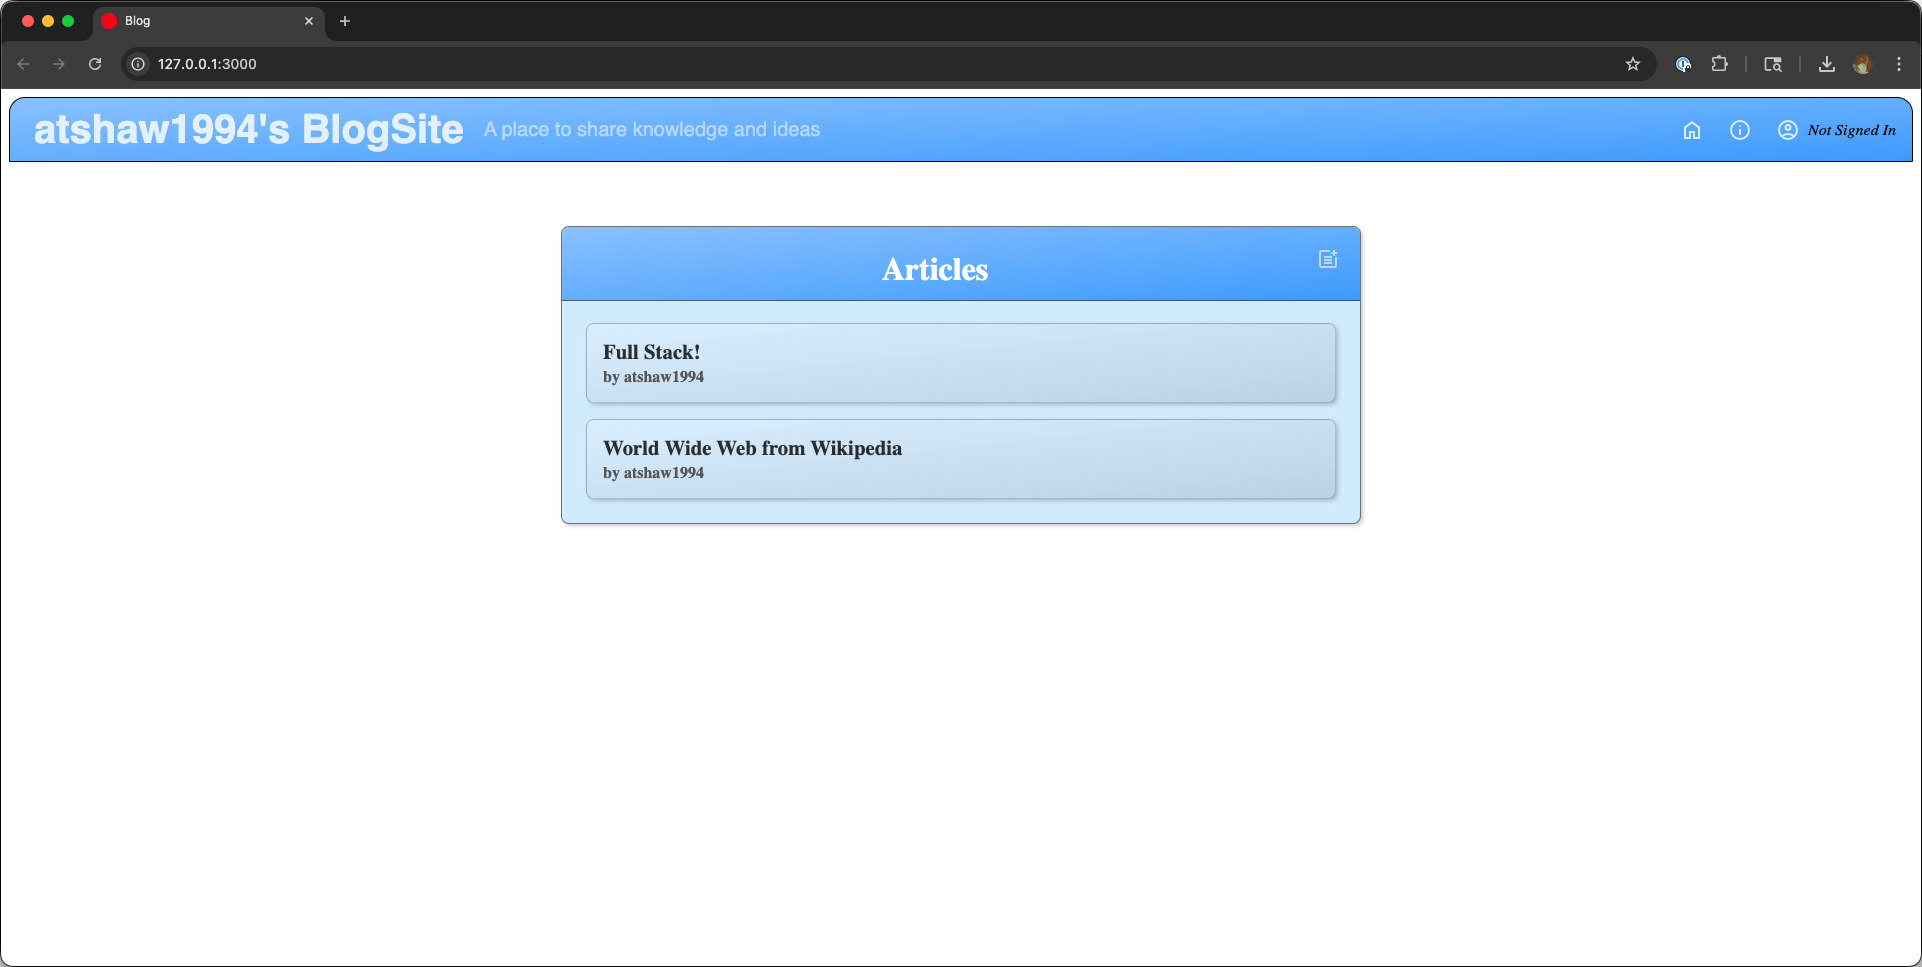
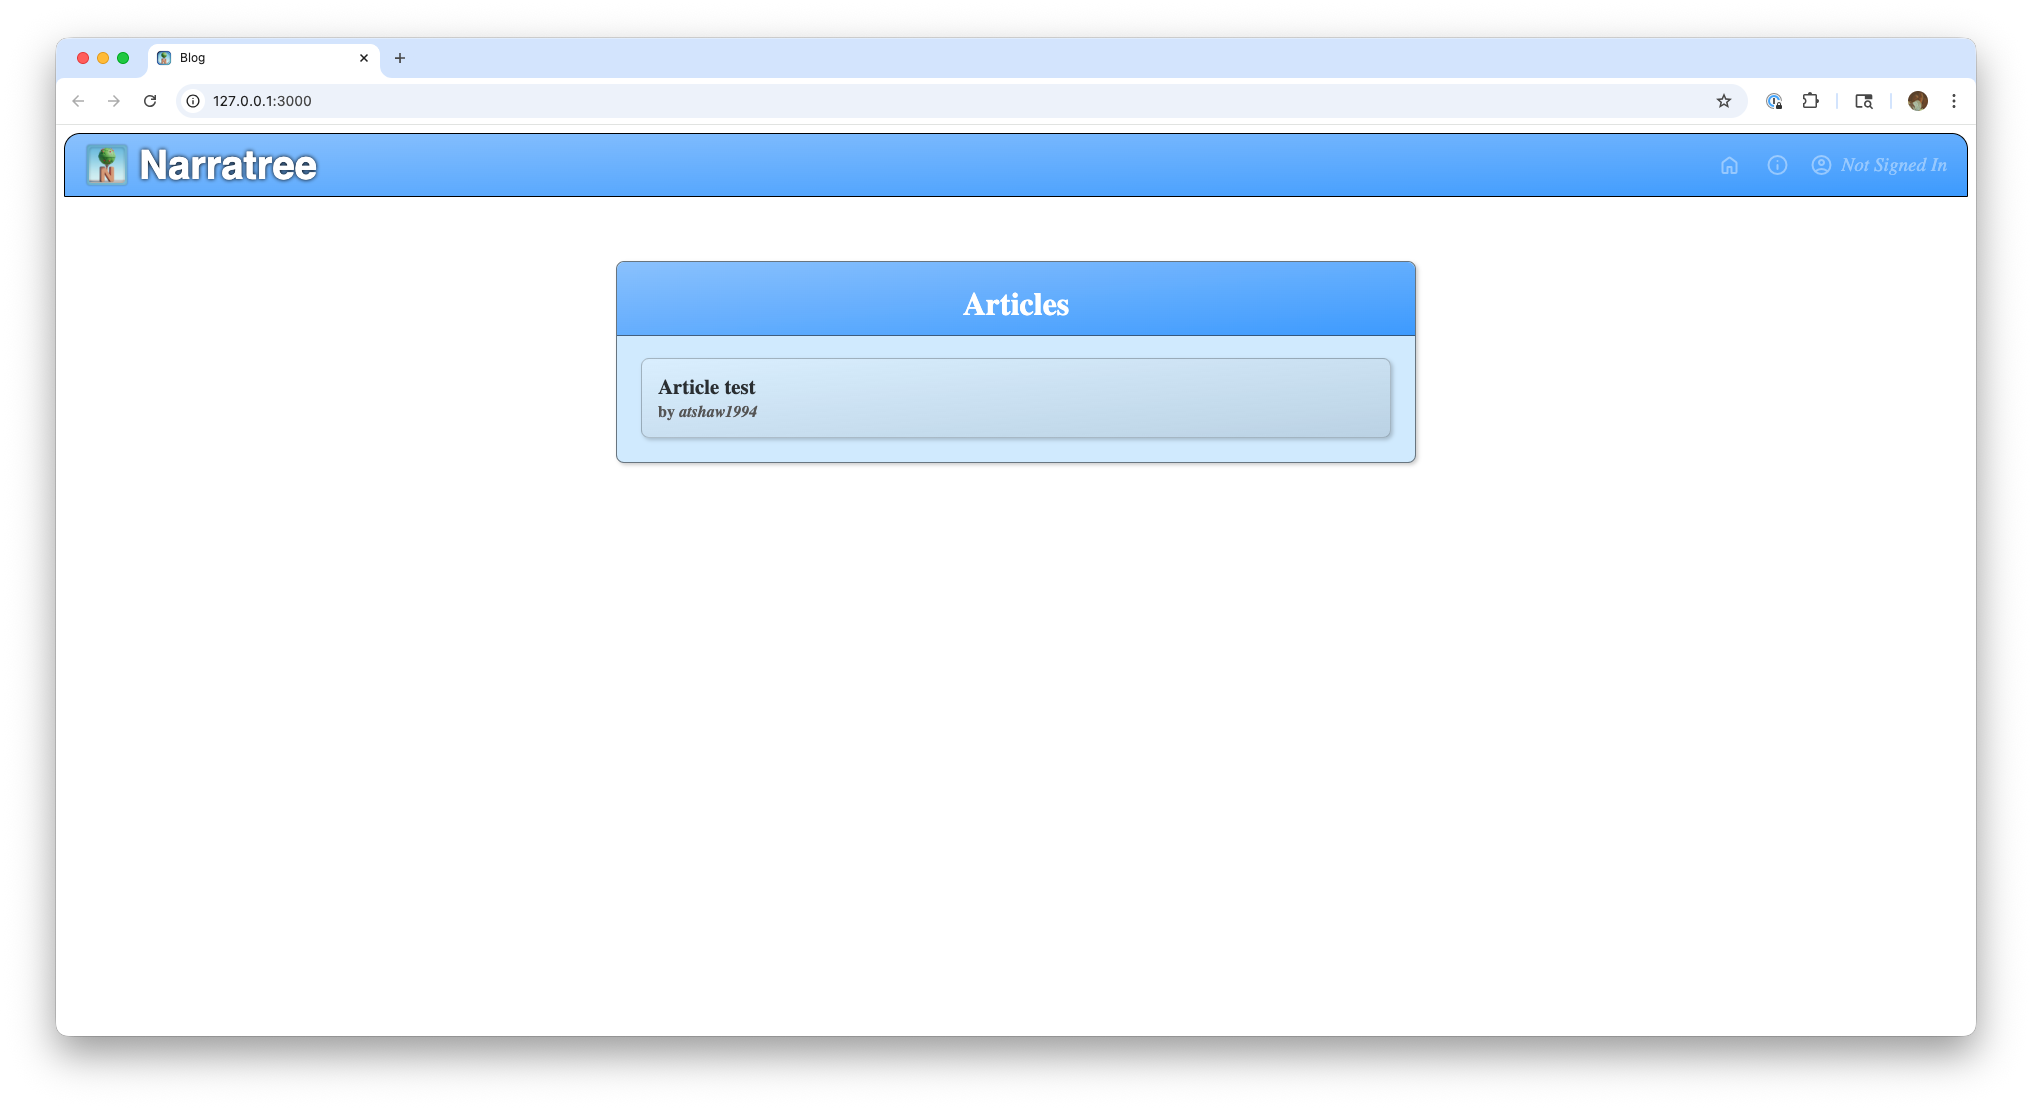
Update readme and screenshot

Changed region(s): [[0.0, 0.0, 1.0, 1.0], [0.281, 0.2172, 0.718, 0.5584]]

diff --git a/README.md b/README.md
@@ -1,10 +1,10 @@
-# Odin Blog
+# Narratree
 
 ![Screenshot](Screenshot.png)
 
 ## Description
 
-Odin Blog is a simple blogging platform built with Ruby on Rails. Users can create articles and leave comments. This project is part of The Odin Project curriculum.
+Narratree is a simple blogging platform built with Ruby on Rails. Users can create articles and leave comments. This project is part of The Odin Project curriculum.
 
 ## Features
 
